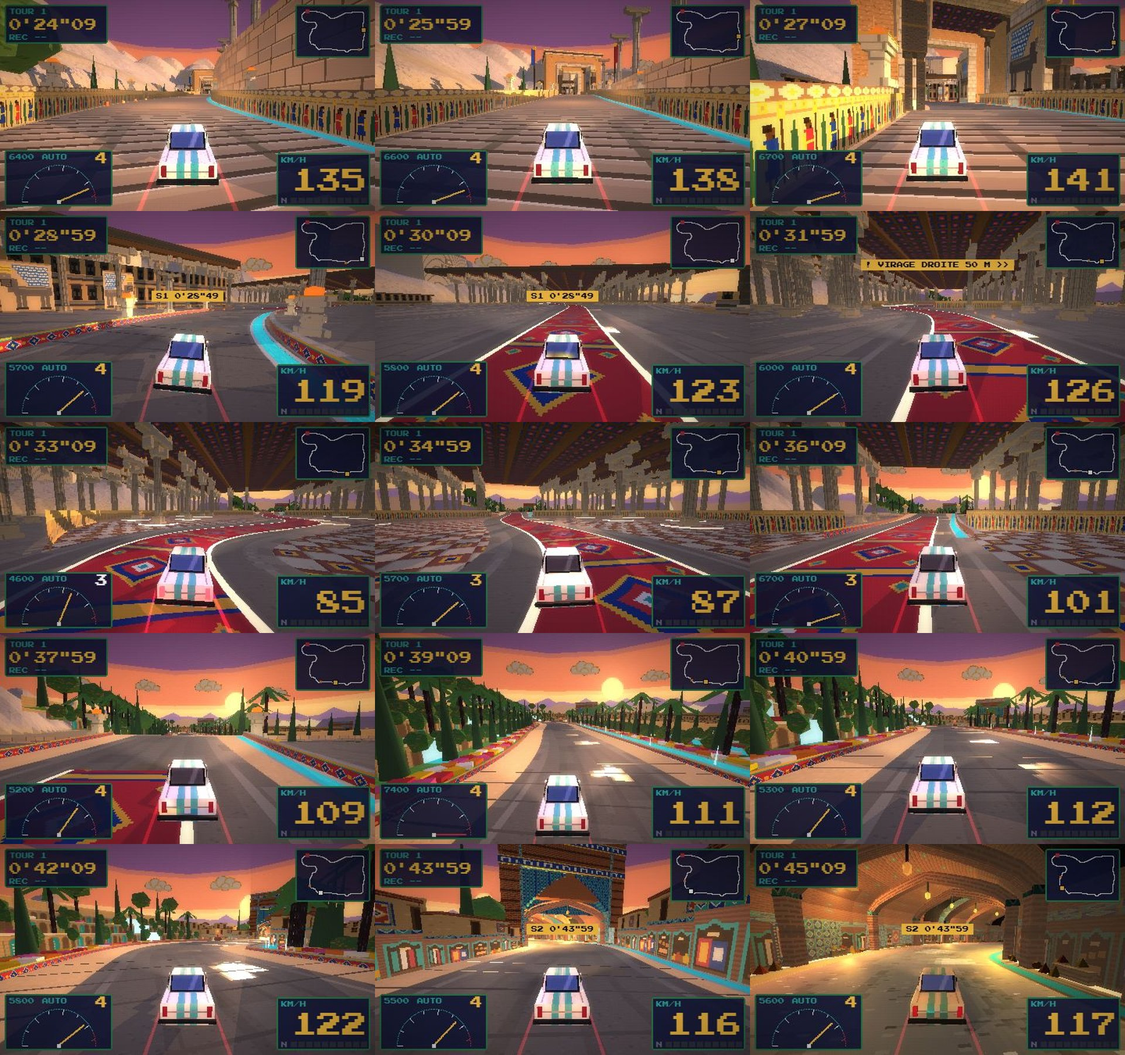
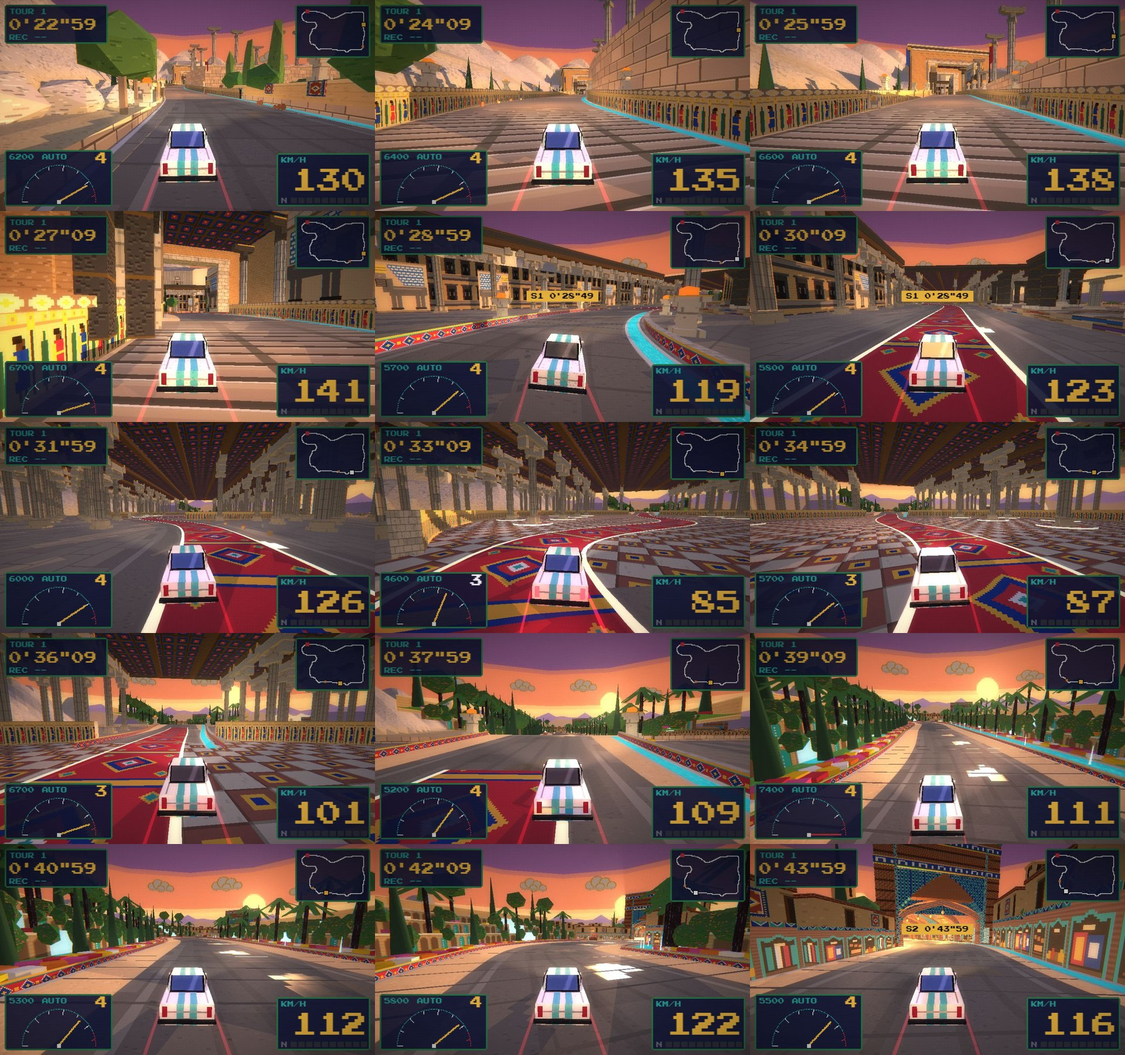
perse, après une analyse indépendante du tour (un agent, planches comparées à paris) : baie de la Porte plus large que la route et une seule aile par taureau (la caméra entrait dans les montants), bordure ivoire à gauche de la chaussée, murs de jardin moins aveugles (porte à cadre turquoise, second 

diff --git a/decors.js b/decors.js
@@ -1827,7 +1827,7 @@
       const maisons = [], peup = [], calottesV = [], dehors = (s, sd) => Math.atan2(-s.tz, s.tx) + (sd < 0 ? Math.PI : 0); // dehors : orientation d'une pièce dont le Z local s'éloigne de la route
       const fenetre = h.mat('peinture', { lum: 1, c: 0xffc058 }), peauRue = { crue: h.mat('facadeCrue', { emissive: 0x2a2010 }), toit: h.mat('brique', { c: 0xb88868 }), cadre: h.mat('faience'), porte: h.mat('planches', { c: 0x7a5a3c }), fenetre, volet: h.mat('planches', { c: 0x5a4630 }), bois: h.mat('planches'), boutique: h.mat('hojreh', { emissive: 0x4a3828 }), faience: h.mat('faience'), auvent: h.mat('auvent', DS, '#a23b2a', '#e8d9b5'), tapis: h.mat('tapis', {}, '#a23b2a', '#1f3a6e', '#f0b840') };
       const ilots = [], aIlot = (sd, m) => { const k = 8 + 17 * m, K = sd < 0 ? KG : KD; if (k < K0 + 15 || k > K - 26 || (m + (sd > 0 ? 2 : 0)) % 4 === 3) return false; for (const e of [-7, 0, 7]) if (Math.abs(S[rel(k + e)].k || 0) > 0.018) return false; return true; };
-      { const verger = [], portes = [], debord = [], tapisM = [], ruellesI = [], jarres = [], bois = [], roues = [], mt = paroi(terre, 4, 1, 4), chap = h.mat('peinture', { c: 0xdcb880, side: THREE.DoubleSide }), mp = paroi(appareil, 8);
+      { const verger = [], cadres = [], portes = [], debord = [], tapisM = [], ruellesI = [], jarres = [], bois = [], roues = [], mt = paroi(terre, 4, 1, 4), chap = h.mat('peinture', { c: 0xdcb880, side: THREE.DoubleSide }), mp = paroi(appareil, 8);
         for (const sd of [-1, 1]) { const K = sd < 0 ? KG : KD, off = s => sd * (s.w + 0.4); let a = 0;
           const pose = (a, b, ht) => { if (b <= a) return; murS(rel(a), b - a, off, ht, -0.6, mt); h.ribbon(rel(a), b - a, s => sd * (s.w + 0.1), ht, s => sd * (s.w + 0.7), ht, chap, 4); };
           const ruelles = []; for (let m = 0; 8 + 17 * (m + 1) < K; m++) if (aIlot(sd, m) && aIlot(sd, m + 1)) { const c = 8 + 17 * m + 8, s = S[rel(c)], [x, , z] = au(s, sd * (s.w + 0.3)); ruelles.push(c); ruellesI.push([x + s.tx, s.y - 0.3, z + s.tz, dehors(s, sd)]); } // entre deux îlots : une ruelle latérale, vue en enfilade
@@ -1842,11 +1842,13 @@
               for (const e of [-6, -2, 2, 6]) for (const d of [8, 14]) { const s2 = S[rel(k + e)], [x, , z] = au(s2, sd * (s2.w + d)); if (g.dAt(x, z) > s2.w + 5) verger.push([x, sol(x, z) + 3.2, z, (k + e) % 6, 2.9, 2.5, 2.9]); }
               for (const e of [-4, 3]) { const s2 = S[rel(k + e)], [x, , z] = au(s2, sd * (s2.w + 1.6)); debord.push([x, s2.y + 5.6, z, (k + e) % 6, 4.4, 3.4, 4.4]); } // les arbres du jardin débordent par-dessus le mur
               { const s2 = S[rel(k + 6)], [x, , z] = au(s2, sd * (s2.w + 0.4)); tapisM.push([x, s2.y + 3.1, z, h.across(s2)]); } // un tapis rouge à cheval sur la crête du mur
-              const [px, , pz] = au(s, sd * (s.w + 0.3)); portes.push([px, s.y + 1.4, pz, h.across(s)]); } } }
+              const [px, , pz] = au(s, sd * (s.w + 0.3)); portes.push([px, s.y + 1.4, pz, h.across(s)]); cadres.push([px, s.y + 1.6, pz, h.across(s)]); // la porte, dans son cadre de faïence turquoise comme celles des maisons
+              { const s2 = S[rel(k - 6)], [x, , z] = au(s2, sd * (s2.w + 0.4)); tapisM.push([x, s2.y + 3.1, z, h.across(s2)]); } // un second tapis sur la crête
+              for (const [e0, n] of [[-10, 3], [10, 2]]) for (let q = 0; q < n; q++) { const s2 = S[rel(k + e0)], [x, , z] = au(s2, sd * (s2.w - (sd > 0 ? 2.4 : 0.8))), r = 1 - q * 0.15; jarres.push([x + s2.tx * q * 0.9, s2.y + 0.5 * r, z + s2.tz * q * 0.9, 0, 0.36 * r, 0.55 * r, 0.36 * r]); } } } }
         sansOmbre(Is('ilot', peauRue, ilots), peauRue.crue); sansOmbre(Is('ruelle', { crue: peauRue.crue, sol: h.mat('peinture', { c: 0xb89a70 }), cadre: peauRue.cadre, porte: peauRue.porte, fenetre, arc: h.mat('peinture', { c: 0xdccfb4 }) }, ruellesI));
         I(h.geo('houppierRond'), h.mat('bruit', {}, '#4f7a3a', ['#5c8a44', '#3e6b34']), debord).castShadow = false; I(h.geo('boite', 0.7, 2, 2.2), peauRue.tapis, tapisM);
         { const sab = []; for (const m of [2, 9, 13, 17, 21]) if (aIlot(-1, m) && aIlot(1, m) && sab.length < 3) { const s = S[rel(8 + 17 * m + 5)]; sab.push([s.x, s.y - 0.3, s.z, h.across(s), 1, 1, 1]); } sansOmbre(Is('sabat', peauRue, sab, { a: [11] }), peauRue.crue); }
-        I(h.geo('houppierRond'), h.mat('bruit', {}, '#4e6e34', ['#5a7a3e', '#3e5a2c']), verger).castShadow = false; I(h.geo('boite', 0.5, 2.8, 1.8), h.mat('planches', { c: 0x7a5a3c }), portes);
+        I(h.geo('houppierRond'), h.mat('bruit', {}, '#4e6e34', ['#5a7a3e', '#3e5a2c']), verger).castShadow = false; I(h.geo('boite', 0.5, 2.8, 1.8), h.mat('planches', { c: 0x7a5a3c }), portes); I(h.geo('boite', 0.4, 3.3, 2.5), peauRue.cadre, cadres);
         I(h.geo('houppierRond'), h.mat('peinture', { c: 0xb5683c }), jarres); I(h.geo('bloc'), h.mat('planches', { c: 0x9a7a52 }), bois); I(h.geo('houppierRond'), h.mat('peinture', { c: 0x3a2c20 }), roues);
         rigole(rel(K0), KD - K0); // la rigole au pied des façades de droite
         murS(300, i9 + 8 - 300, s => s.w + 0.3, 1.3, -0.6, mp); mt.fin(); mp.fin(); } // les 250 derniers mètres avant la terrasse : le pied du mur passe à la pierre
@@ -1857,7 +1859,7 @@
         I(h.geo('bloc'), h.mat('peinture', { c: 0x8a7458 }), tr); I(h.geo('houppierRond'), h.mat('bruit', {}, '#5a7a3a', ['#6a8a44', '#46642e']), ho); I(h.geo('houppierRond'), h.mat('bruit', { flatShading: true }, '#b9ad9c', ['#9c9080', '#d0c6b6', '#857a6c']), rocs); }
       I(h.geo('houppierRond'), peuplier, peup).castShadow = false;
       // --- la chaussée dallée : des joints en travers sur toute la route à ciel ouvert, hors de l'escalier (qui a ses marches) et de la salle (qui a son tapis) ---
-      { const jo = h.mat('joints', { alphaTest: 0.5, ...DS }); for (const [a, b] of [[R0, i9], [i12 + 2, i14 + 8], [i20 + 3, T.t0 - 1], [T.t1 + 2, R0]]) h.ribbon(a % N, (b - a + N) % N, s => -s.w + 0.2, 0.025, s => s.w - 0.2, 0.025, jo, 6); }
+      { const jo = h.mat('joints', { alphaTest: 0.5, ...DS }); for (const [a, b] of [[R0, i9], [i12 + 2, i14 + 8], [i20 + 3, T.t0 - 1], [T.t1 + 2, R0]]) { h.ribbon(a % N, (b - a + N) % N, s => -s.w + 0.2, 0.025, s => s.w - 0.2, 0.025, jo, 6); h.ribbon(a % N, (b - a + N) % N, s => -s.w + 0.15, 0.04, s => -s.w + 0.5, 0.04, ivoire, 4); } } // et une bordure ivoire à gauche : le bord droit se lit par la rigole, le gauche ne se lisait pas
 
       // ================= Persépolis : l'escalier, la Porte, la terrasse, la salle, le perron =================
       const portique = [], frise = h.mat('frise', DS), tapisBord = h.mat('tapisBord', DS), braseros = [], flammes = [], brasero = (i, d, k = 1, y = 0) => { const s = S[(i + N) % N], [x, , z] = au(s, d); braseros.push([x, s.y + y, z, h.across(s), k, k, k]); flammes.push([x, s.y + y + 2.6 * k, z, 0, 0.55 * k, 0.4 * k, 0.55 * k]); };
@@ -1881,7 +1883,7 @@
         const cy = []; for (let i = i9 + 6; i < i12 + 20; i += 9) { const s = S[i], d = s.w + 9 + (i % 5) * 2.2, [x, , z] = au(s, -d); cy.push([x, sol(x, z) - 0.6, z, 0, 0.9, 0.8 + (i % 4) * 0.12, 0.9]); } I(h.geo('cypres'), h.mat('peinture', { c: 0x2f4a2e }), cy).castShadow = false; } // quelques cyprès au pied de la montagne
       // --- la Porte des Nations (REFS §6-7), au sommet de l'escalier, dans son axe : un pavillon de 30 m de haut que la route traverse, taureaux ailés à l'arrivée, taureaux à tête humaine à la sortie ---
       { const i = i12 + 9, s = S[i], gr = repere(h, s), E = 1.45; gr.scale.setScalar(E); // agrandie d'un seul tenant (30 m de haut) : étirée en hauteur seulement, ses reliefs et ses taureaux étaient déformés ; la forme est bâtie pour une baie de s.w / E, qui retrouve la largeur de la route
-        h.pose('porteNations', { crue, pierre, sculpte: h.mat('sculpte', { c: 0x6a625a, emissive: 0x1a1410 }), ailes: h.mat('ailes', { c: 0xb8ac98, emissive: 0x2a2018 }), or, fut: h.mat('cannelure'), relief, cedre: h.mat('plafondCedre'), lamTG: h.mat('lamassuRelief', {}, false, false), lamTD: h.mat('lamassuRelief', {}, false, true), lamHG: h.mat('lamassuRelief', {}, true, false), lamHD: h.mat('lamassuRelief', {}, true, true), visage: h.mat('sculpte', { c: 0xb0a490, emissive: 0x2a2018 }), tiare: h.mat('peinture', { c: 0x1d3a8a }), aile: h.mat('ailes', { c: 0xd0c4a8, emissive: 0x2a2018 }) }, gr, [0, 0, 0], (S[i - 10].w + 0.2) / E); for (const sd of [-1, 1]) muret(i12 + 10, 16, sd); } // la baie a la largeur de la route à l'entrée du pavillon (elle se resserre ensuite : le muret à bordure de tapis prend le relais du parapet de l'escalier)
+        h.pose('porteNations', { crue, pierre, sculpte: h.mat('sculpte', { c: 0x6a625a, emissive: 0x1a1410 }), ailes: h.mat('ailes', { c: 0xb8ac98, emissive: 0x2a2018 }), or, fut: h.mat('cannelure'), relief, cedre: h.mat('plafondCedre'), lamTG: h.mat('lamassuRelief', {}, false, false), lamTD: h.mat('lamassuRelief', {}, false, true), lamHG: h.mat('lamassuRelief', {}, true, false), lamHD: h.mat('lamassuRelief', {}, true, true), visage: h.mat('sculpte', { c: 0xb0a490, emissive: 0x2a2018 }), tiare: h.mat('peinture', { c: 0x1d3a8a }), aile: h.mat('ailes', { c: 0xd0c4a8, emissive: 0x2a2018 }) }, gr, [0, 0, 0], (S[i - 10].w + 1.6) / E); for (const sd of [-1, 1]) muret(i12 + 10, 16, sd); } // la baie : 1,6 m de plus que la route à l'entrée du pavillon, de chaque côté (la caméra, qui déborde de la chaussée en virage, entrait dans le poitrail des taureaux) ; la route se resserre ensuite, le muret à bordure de tapis prend le relais du parapet de l'escalier
       // --- la terrasse, de la Porte à la salle : une voie processionnelle. Muret à bordure de tapis et file de colonnes des deux côtés de la route, braseros ; autour, les palais en ruine :
       // à droite de la ligne droite, au ras de la route, le palais de Darius (dans le creux du virage, la caméra ne le voyait pas) ; à gauche le portique du palais de Xerxès, qui file jusqu'à la salle ; contre la montagne, les murs du Trésor ---
       { const a = i12 + 26, b = i14 + 6, allee = [], etendT = [], portes = [], murets = paroi(h.mat('murSalle', DS), 8), socles = [];
@@ -1905,6 +1907,8 @@
         { const d = nappe(h.mat('dallage', DS), 8); for (let k = 0; k < 64; k++) { const f = j => [CX + Math.cos(j * Math.PI / 32) * (PL.r + 0.5), YS - 0.01, CZ + Math.sin(j * Math.PI / 32) * (PL.r + 0.5)], c = [CX, YS - 0.01, CZ]; d.quad(c, c, f(k), f(k + 1)); } d.fin(); }
         h.ribbon(i14 + 10, (i20 - i14 + N) % N - 20, -3.5, 0.03, 3.5, 0.03, h.mat('tapisAllee', DS), 7);
         for (const e of [-1, 1]) h.ribbon(i14 + 10, (i20 - i14 + N) % N - 20, e * 3.5, 0.035, e * 3.85, 0.035, h.mat('peinture', { lum: 1, c: 0xf4ead0, side: THREE.DoubleSide }), 4); // liserés ivoire : l'allée se lit sur le tapis
+        { const d = nappe(h.mat('dallage', DS), 8), i0 = i14 + 10, n = (i20 - i14 + N) % N - 20; // le damier vient jusqu'au liseré du tapis : la chaussée grise qui dépassait de chaque côté se lisait comme une seconde piste
+          for (let k = 0; k < n; k++) { const a = S[(i0 + k) % N], b = S[(i0 + k + 1) % N]; if (!dansSalle(a.x, a.z, -1) || !dansSalle(b.x, b.z, -1)) continue; for (const sd of [-1, 1]) d.quad(au(a, sd * 3.85, 0.03), au(b, sd * 3.85, 0.03), au(a, sd * a.w, 0.03), au(b, sd * b.w, 0.03)); } d.fin().castShadow = false; }
         for (let x = CX - 84; x <= CX + 84; x += 12) for (let z = CZ - 72; z <= CZ + 72; z += 12) if (!dansSalle(x, z, 4) && g.dAt(x, z) > W + 4) foret.push([x, YS, z, 0]);
         foret.push(...portique, ...cols); // avec le portique de la terrasse et les quinze colonnes de la place, qu'on percute
         Is('colonnePerse', { pierre: h.mat('pierre', { c: 0xa8a098, emissive: 0x1a1612 }), fut: h.mat('cannelure', { c: 0xa49e94, emissive: 0x1a1612 }), sculpte: h.mat('sculpte', { emissive: 0x1a1612 }), or }, foret, { a: [HC] });
@@ -2014,15 +2018,16 @@
 
       // --- à ciel ouvert, avant le portail (fin du jardin) et après la voûte jusqu'à la ruelle de jardins : une rue de boutiques. Chaque module a ses niches, un étage et un toit plat ;
       // les hauteurs varient de 7 à 10 m, puis la rue s'abaisse vers la plaine. Sur les 40 premiers mètres après la voûte, des toiles tendues d'une façade à l'autre : on ne passe pas d'un coup de l'ombre au ciel ---
-      { const mods = [], potences = [], lanternes = [], etals = [[], []], toiles = [[], []], finRue = R0 + 22, peaux = { tapis: h.mat('tapis', {}, '#a23b2a', '#1f3a6e', '#f0b840'), boutiques: h.mat('hojreh', { emissive: 0x4a3828 }), faience: h.mat('faience'), etage: h.mat('facadeCrue'), toit: h.mat('brique', { c: 0xb88868 }) };
+      { const mods = [], badgirs = [], potences = [], lanternes = [], etals = [[], []], toiles = [[], []], finRue = R0 + 22, peaux = { tapis: h.mat('tapis', {}, '#a23b2a', '#1f3a6e', '#f0b840'), boutiques: h.mat('hojreh', { emissive: 0x4a3828 }), faience: h.mat('faience'), etage: h.mat('facadeCrue'), toit: h.mat('brique', { c: 0xb88868 }) };
         const rue = (a, b) => { for (let i = a, k = 0; i < b; i += 6, k++) { const j = i % N, s = S[j], reste = (b - i) / 6, bas = 1; // la rue garde sa hauteur jusqu'aux premiers îlots de la rue de village, 6 m avant la ligne (elle s'abaissait vers un mur de terre nu : 50 m vides)
             for (const sd of [-1, 1]) { const [x, , z] = au(S[(j + 3) % N], sd * (S[(j + 3) % N].w + 0.5)), hy = bas * (0.72 + ((k * 5 + (sd > 0) * 3) % 5) * 0.14); mods.push([x, s.y - 0.4, z, Math.atan2(-s.tz, s.tx) + (sd < 0 ? Math.PI : 0), 1.04, hy, 1]);
+              if ((k + (sd > 0) * 2) % 3 === 1) { const [bx, , bz] = au(S[(j + 3 + (k % 2) * 2) % N], sd * (S[(j + 3) % N].w + 5 + (k % 3))); badgirs.push([bx, s.y - 0.4 + 9.5 * hy, bz, h.across(s), 1, 0.8 + (k % 4) * 0.2, 1]); } // une tour à vent sur un toit sur trois : la ligne des toits n'est plus un trait
               if ((k + (sd > 0)) % 2 === 0 && reste > 2) { const [ex, , ez] = au(s, sd * (s.w - (sd > 0 ? 3.4 : 2.3))); etals[(k >> 1) % 2].push([ex, s.y, ez, dehors(s, sd)]); } // un étal à auvent devant une boutique sur deux, sur le bord de la chaussée
               if ((k + (sd > 0) * 2) % 5 === 0) { const [px, , pz] = au(s, sd * (s.w - 0.4)); potences.push([px, s.y + 4.9, pz, h.across(s), 1.8, 0.1, 0.1]); const [lx, , lz] = au(s, sd * (s.w - 1.1)); lanternes.push([lx, s.y + 4.2, lz, 0]); h.lum(j, lx, s.y + 4.2, lz, 0xffb060, 14, 0.4); } } } }; // une lanterne sur potence de fer, fixée à la façade, une boutique sur cinq
         rue(i25 - 2, T.t0 - 2); rue(T.t1 + 3, finRue);
-        for (let k = 0; k < 7; k++) { const s = S[(T.t1 + 3 + k * 3) % N]; toiles[k % 2].push([s.x, s.y + 8.2 - (k % 3) * 0.5, s.z, h.across(s), 2 * s.w + 2, 0.08, 4.4]); }
-        sansOmbre(Is('arcadeBazar', peaux, mods), peaux.etage); [['#c8323c', '#f0b840'], ['#2aa39a', '#e8d9b5']].forEach((c, n) => sansOmbre(Is('etalPerse', { bois, auvent: h.mat('auvent', DS, ...c), marchandise: h.mat('peinture', { c: n ? 0xf0b840 : 0xc8323c }) }, etals[n]))); I(h.geo('bloc'), h.mat('matGris'), potences); I(h.geo('lanterne'), h.mat('peinture', { lum: 1, c: 0xe8a050 }), lanternes);
-        [['#e8d9b5', '#d2a24c'], ['#e8d9b5', '#2aa39a']].forEach((c, k) => I(h.geo('bloc'), h.mat('auvent', { ...DS, lum: 1 }, ...c), toiles[k])); // toiles claires : sombres, elles se lisaient comme des dalles en l'air
+        for (let k = 0; k < 4; k++) { const s = S[(T.t1 + 4 + k * 5) % N]; toiles[k % 2].push([s.x, s.y + 7.6 - (k % 2) * 0.5, s.z, h.across(s), 2 * s.w + 1.2, 0.08, 5]); } // quatre toiles, d'une façade à l'autre, sous la ligne des toits
+        sansOmbre(Is('arcadeBazar', peaux, mods), peaux.etage); sansOmbre(Is('badgir', { crue: peaux.etage, sombre }, badgirs)); [['#c8323c', '#f0b840'], ['#2aa39a', '#e8d9b5']].forEach((c, n) => sansOmbre(Is('etalPerse', { bois, auvent: h.mat('auvent', DS, ...c), marchandise: h.mat('peinture', { c: n ? 0xf0b840 : 0xc8323c }) }, etals[n]))); I(h.geo('bloc'), h.mat('matGris'), potences); I(h.geo('lanterne'), h.mat('peinture', { lum: 1, c: 0xe8a050 }), lanternes);
+        [['#e8d9b5', '#d2a24c'], ['#e8d9b5', '#2aa39a']].forEach((c, k) => I(h.geo('bloc'), h.mat('auvent', { ...DS, emissive: 0x6a5a40 }, ...c), toiles[k])); // toiles claires mais éclairées par le jour : lumineuses, elles brûlaient la sortie de la voûte en bandes blanches
         rigole(T.t1 + 3, (R0 + 27 - (T.t1 + 3) + N) % N); if (T.tun) rigole(T.t0, (T.t1 - T.t0 + N) % N + 3, 2.7, 1.8); rigole(i25 - 3, (T.t0 - (i25 - 3) + N) % N); } // la rigole du canal, à droite, jusqu'à celle de la ruelle
       // --- le quartier du bazar : autour de la voûte et de la rue, une nappe de maisons de brique crue à toits plats qui descend la pente, quelques calottes de brique (pas de bulbe : REFS §12) ---
       { const calottes = calottesV;

diff --git a/cartes.js b/cartes.js
@@ -422,7 +422,7 @@
         chev: 0, murH: 0, objets: [[0xb5683c, 0.2, 0.3, 0.8], [0xc8a060, 0.34, 0.28, 0.5]], routeTex: 'chausseeFine', route: ['#8a7a66', '#938370', '#a89880', '#8a7a66', '#9a8a74', '#8a7a66', false], mur: ['#f4ead0', '#c8323c', '#1d3a8a', '#d8b878'], depart: [0xf0b840, 0x1d3a8a, '#f4ead0'],
         tun: { sol: ['#4a4644', '#54504c', '#8a8078', '#4a4644', '#c8323c', '#2a1a10'], murs: ['#c8323c', '#2aa39a'], paroi: ['#7a4428', '#9a5a38', '#c8323c', '#3a2014'], plafond: ['#8a5234', '#a8643e', '#9a5a38', '#5a3420'], // voûte lapis et or au-dessus d'une chaussée claire : la route se détache de la brique
           fog: 0xa87c54, portail: 0x6a3a22, // voûte du bazar (docs/MOTEUR-OPTIONS-CARTES.md) : une coupole par travée de 8 m, naissances à 6 m, clé de 10 à 11,8 m ; un lanterneau toutes les trois travées : c'est le décor qui le pose (panneau clair dans sa voûte), la coque du moteur reste pleine — ses ouvertures (ouv) ne tombaient pas sur les travées et laissaient des croissants noirs au plafond
-          h: 11, voute: 5, ambiant: 1, neons: [0xffb850, 0xf0b840], reflets: ['#5a2a18', '#5a4418'], coque: 80, eclat: 0.9 }, oeil: { tun: 0.65, noir: 0.5, clair: 0.2 }, frole: 1, // eclat : l'œil se fait à un bazar plus clair (tous les relecteurs le trouvaient trop sombre)
+          h: 11, voute: 5, ambiant: 1, neons: [0xc88a3a, 0xbe8430] /* luminaires aux trois quarts : à pleine clarté le sol du bazar était brûlé, ses bords perdus */, reflets: ['#5a2a18', '#5a4418'], coque: 80, eclat: 0.9 }, oeil: { tun: 0.65, noir: 0.5, clair: 0.2 }, frole: 1, // eclat : l'œil se fait à un bazar plus clair (tous les relecteurs le trouvaient trop sombre)
         hud: { y: '#f0b840', c: '#2aa39a', r: '#c8323c', fond: 'rgba(20,24,56,.9)', style: 'plaque', jauge: 'aiguille', split: 0, jp: null, sur: [null, 'PERSEPOLIS · COUCHANT'], titre: ['ROUTE', 'ROYALE'] } } },
     // Barrage 74 : une centrale hydroélectrique soviétique des années 70, vannes ouvertes, au matin voilé (docs/SPEC-BARRAGE.md). Sens horaire, départ cap ouest dans la vallée,
     // grand U, pont d'acier sous les embruns des gerbes (pts 10-11), rampe vers le portail (pt 15), salle des turbines en ligne droite (pts 17-21, à ciel fermé : c'est le décor qui la construit,

diff --git a/formes-perse.js b/formes-perse.js
@@ -22,7 +22,7 @@
         // son avant-corps (poitrail, pattes, tête, tiare ou cornes) sort du montant vers l'extérieur, comme sur le site
         ...[-1, 1].flatMap(fz => { const z1 = fz * 17.9, X = sd * (W + 1.5), hum = fz < 0; return [['pierre', 3.4, 14, 8, sd * (W + 1.7), 7, fz * 13.9, null, 1], ['crue', 4.6, 18, 3, sd * (W + 5.9), 9, fz * 11.7],
           [(sd < 0) === (fz > 0) ? (hum ? 'lamHG' : 'lamTG') : (hum ? 'lamHD' : 'lamTD'), 0.16, 10.5, 7.6, sd * (W - 0.05), 6.6, fz * 13.9],
-          ['sculpte', 2.8, 4, 2.4, X, 6.6, z1 + fz * 1.2], ...[-0.7, 0.7].map(dx => ['sculpte', 0.9, 4.6, 1, X + dx, 2.3, z1 + fz * 1.6]), ['visage', 2, 2.4, 2, X, 9.6, z1 + fz * 1.6], ...[-1, 1].map(e => ['aile', 0.35, 5.5, 4.5, X + e * 1.5, 9.5, z1 - fz * 0.6, [fz * 0.35, e * fz * 0.3, 0]]), // tête claire, ailes déployées qui montent du montant
+          ['sculpte', 2.8, 4, 2.4, X, 6.6, z1 + fz * 1.2], ...[-0.7, 0.7].map(dx => ['sculpte', 0.9, 4.6, 1, X + dx, 2.3, z1 + fz * 1.6]), ['visage', 2, 2.4, 2, X, 9.6, z1 + fz * 1.6], ...[sd].map(e => ['aile', 0.35, 5.5, 4.5, X + e * 1.5, 9.5, z1 - fz * 0.6, [fz * 0.35, e * fz * 0.3, 0]]), // tête claire, une aile déployée qui monte du montant, du côté opposé à la route (l'autre barrait la baie : un grand aplat devant la caméra)
           ...(hum ? [['sculpte', 1.6, 1.8, 0.6, X, 7.6, z1 + fz * 2.6], ['tiare', 2.1, 1.9, 2, X, 11.75, z1 + fz * 1.6], ['or', 2.2, 0.3, 2.1, X, 11.2, z1 + fz * 1.6], ['or', 2.3, 0.25, 2.2, X, 12.8, z1 + fz * 1.6]] : [['or', 3.4, 0.35, 0.4, X, 10.9, z1 + fz * 1.6], ['or', 0.35, 1.2, 0.35, X - 1.6, 11.6, z1 + fz * 1.6], ['or', 0.35, 1.2, 0.35, X + 1.6, 11.6, z1 + fz * 1.6]])]; }),
         ...[-5, 5].flatMap(z => colonne(sd * (W + 4.6), z, 16.5))]),
       ...[-1, 1].flatMap(fz => [['crue', L, 3.4, 3, 0, 16.3, fz * 11.7], ['pierre', 2 * W + 7.2, 1.3, 3.8, 0, 14.6, fz * 11.7], ['relief', 2 * W + 7, 1, 0.2, 0, 15.6, fz * 13.65]]),
